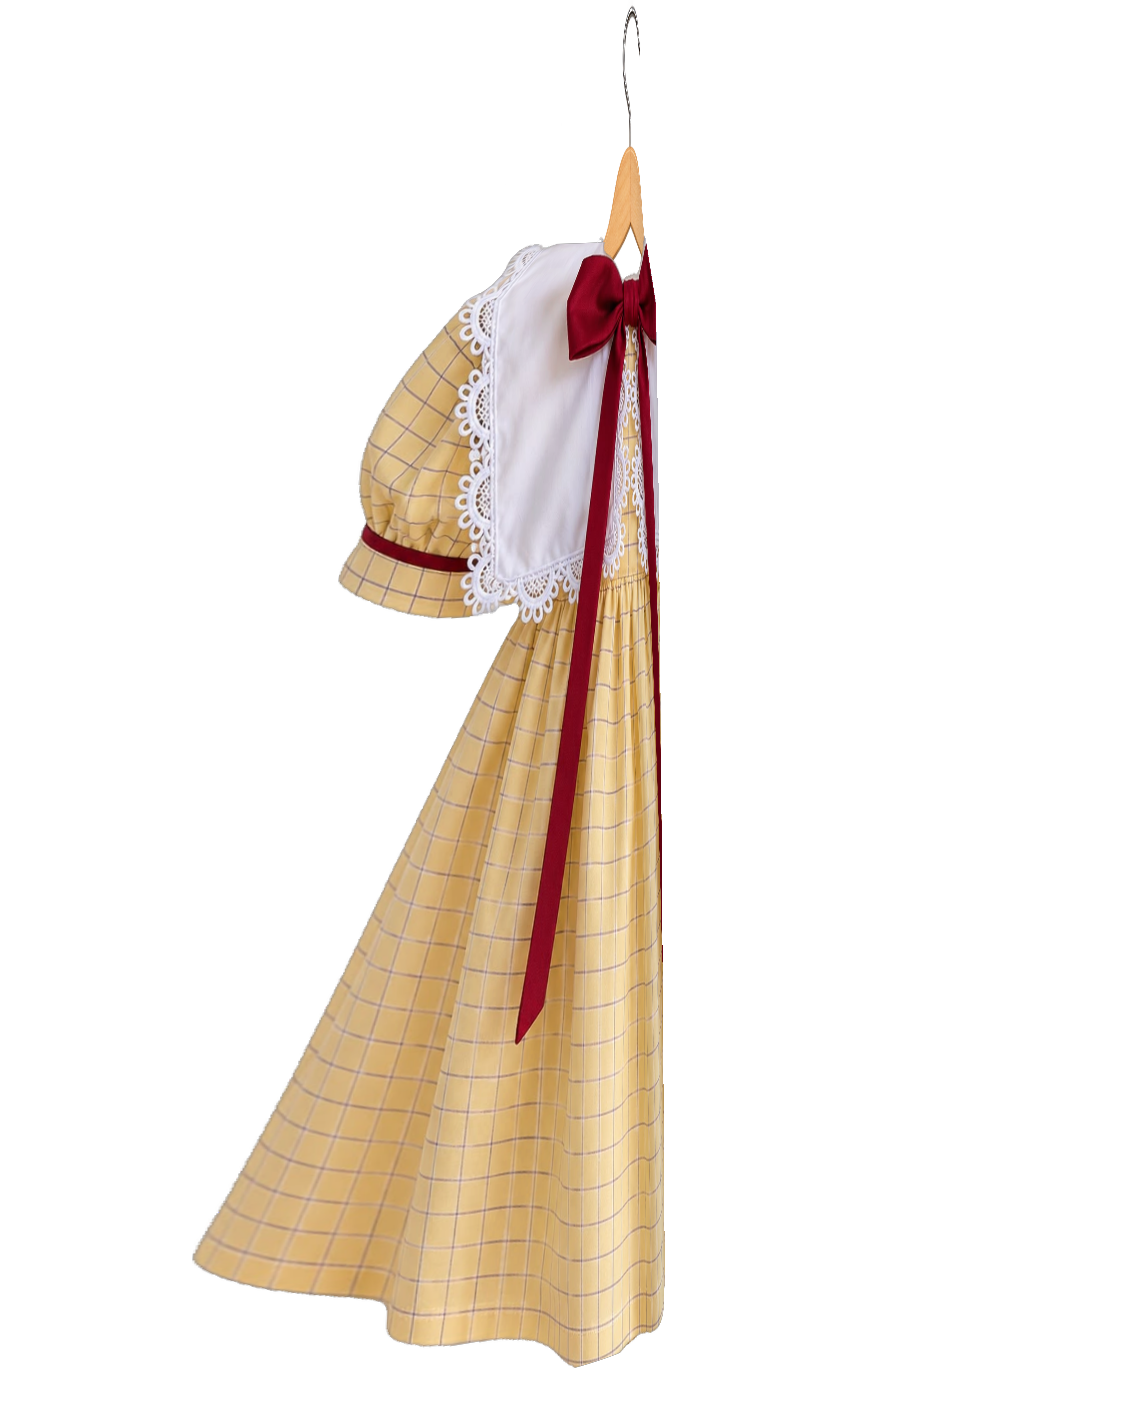
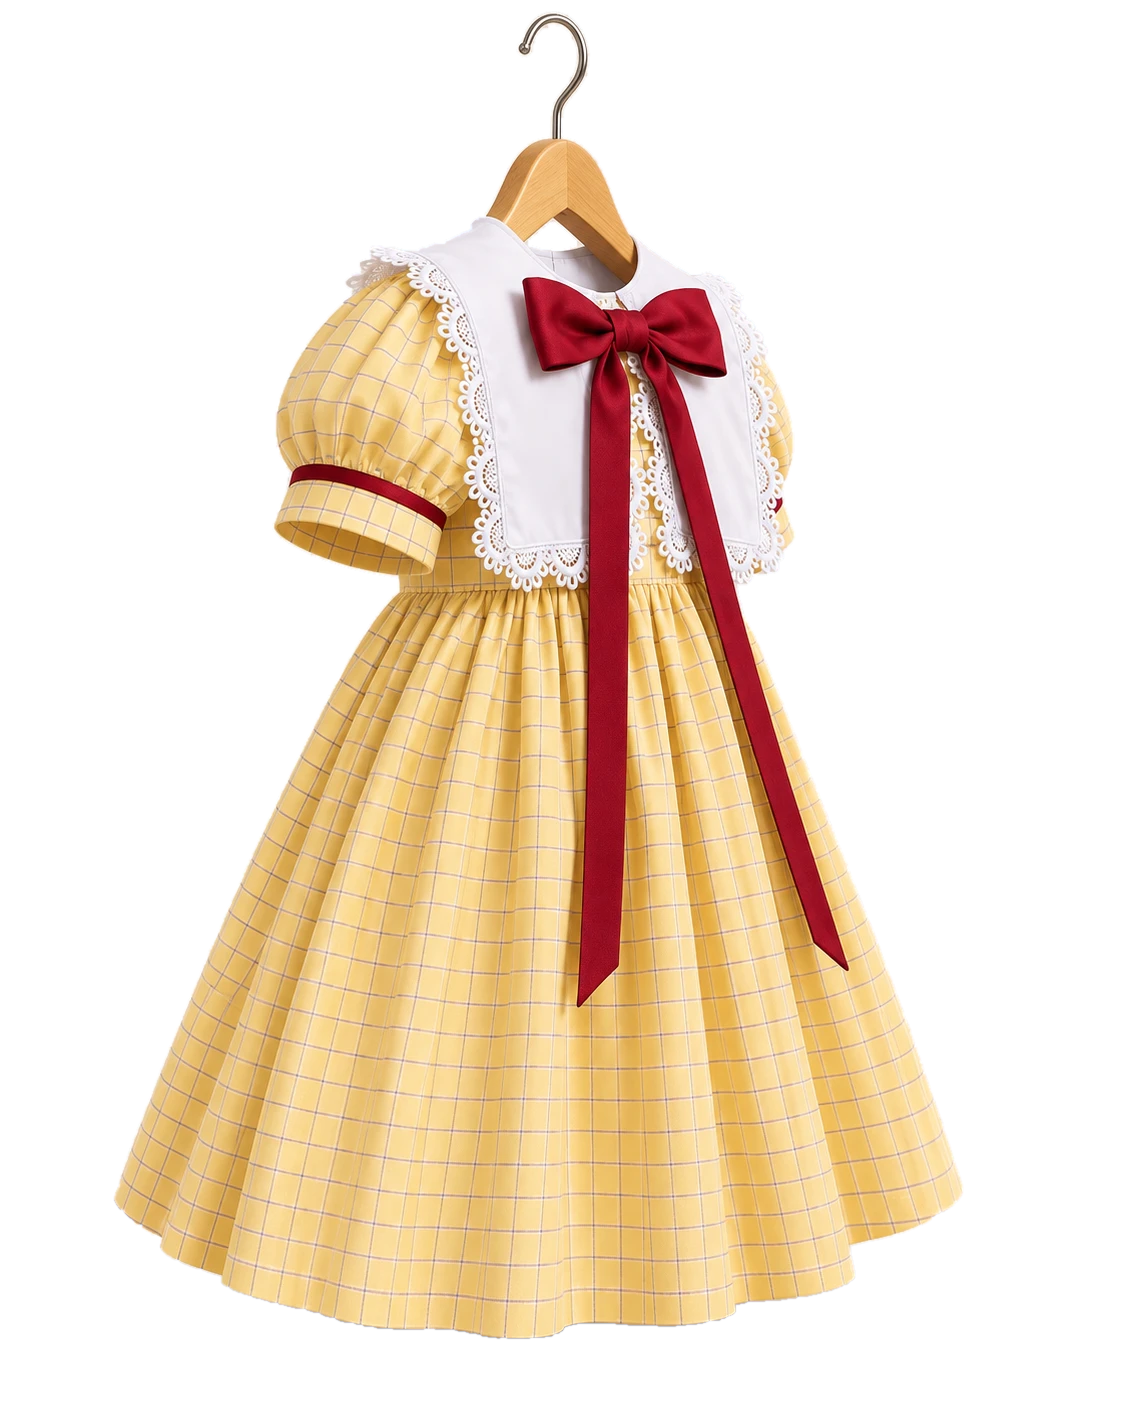
Usa a nova lateral do Vestido Pão de Mel enviada pela loja
Lateral gerada por IA a partir da foto do produto, com fundo e sombra
removidos. Substitui a versão obtida deformando a foto de frente.

Claude-Session: https://claude.ai/code/session_01JWzVUfE6a2CxmnwEsjALQt

diff --git a/encaixe-cabides.js b/encaixe-cabides.js
@@ -1,4 +1,4 @@
-window.BIBILICA_HOOKS={"assets/recortes/vestido-pao-de-mel.png": {"woodY": 145, "woodX": 560.1}, "assets/laterais/vestido-pao-de-mel.png": {"woodY": 145, "woodX": 630.8}, "assets/laterais/vestido-nuvem-verde.png": {"anchor": 33.8, "cut": 77.2, "x": 537.0, "woodY": 148, "woodX": 540.6}, "assets/recortes/vestido-nuvem-verde.png": {"anchor": 50.2, "cut": 125.8, "x": 545.0, "woodY": 145, "woodX": 560.1}, "assets/laterais/vestido-abelhinha.png": {"anchor": 33.6, "cut": 74.9, "x": 520.5, "woodY": 218, "woodX": 535.26}, "assets/laterais/vestido-algodao-doce.png": {"anchor": 44.2, "cut": 91.8, "x": 529.0, "woodY": 151, "woodX": 517.6}, "assets/laterais/vestido-botao-de-rosa.png": {"anchor": 43.6, "cut": 91.9, "x": 534.5, "woodY": 161, "woodX": 540.5}, "assets/laterais/vestido-campinho-azul.png": {"anchor": 40.4, "cut": 90.1, "x": 555.5, "woodY": 151, "woodX": 565.3}, "assets/laterais/vestido-campinho.png": {"anchor": 41.8, "cut": 88.7, "x": 559.5, "woodY": 160, "woodX": 566.3}, "assets/laterais/vestido-cerejeira.png": {"anchor": 35.6, "cut": 76.9, "x": 543.5, "woodY": 172, "woodX": 531.39}, "assets/laterais/vestido-cerejinha.png": {"anchor": 39.2, "cut": 90.3, "x": 505.5, "woodY": 149, "woodX": 514.9}, "assets/laterais/vestido-guirlanda.png": {"anchor": 28.2, "cut": 65.3, "x": 555.5, "woodY": 120, "woodX": 560.3}, "assets/laterais/vestido-jardinzinho.png": {"anchor": 31.8, "cut": 68.2, "x": 561.0, "woodY": 116, "woodX": 565.8}, "assets/laterais/vestido-laco-de-fita.png": {"anchor": 29.4, "cut": 65.1, "x": 555.5, "woodY": 102, "woodX": 561.7}, "assets/laterais/vestido-marujinha.png": {"anchor": 41.2, "cut": 92.3, "x": 535.5, "woodY": 146, "woodX": 535.7}, "assets/laterais/vestido-nuvem.png": {"anchor": 33.8, "cut": 77.2, "x": 537.0, "woodY": 148, "woodX": 540.6}, "assets/laterais/vestido-raminho.png": {"anchor": 35.8, "cut": 79.2, "x": 544.0, "woodY": 123, "woodX": 553.2}, "assets/recortes/vestido-abelhinha.png": {"anchor": 42.0, "cut": 101.5, "x": 648.5, "woodY": 146, "woodX": 654.2}, "assets/recortes/vestido-algodao-doce.png": {"anchor": 26.2, "cut": 59.8, "x": 636.0, "woodY": 144, "woodX": 633.6}, "assets/recortes/vestido-botao-de-rosa.png": {"anchor": 58.0, "cut": 131.5, "x": 525.5, "woodY": 165, "woodX": 536.2}, "assets/recortes/vestido-campinho-azul.png": {"anchor": 53.6, "cut": 126.4, "x": 546.0, "woodY": 147, "woodX": 559.6}, "assets/recortes/vestido-campinho.png": {"anchor": 56.6, "cut": 139.9, "x": 555.0, "woodY": 159, "woodX": 560.4}, "assets/recortes/vestido-cerejeira.png": {"anchor": 38.2, "cut": 89.3, "x": 539.0, "woodY": 140, "woodX": 542.1}, "assets/recortes/vestido-cerejinha.png": {"anchor": 43.6, "cut": 102.4, "x": 618.0, "woodY": 123, "woodX": 627.6}, "assets/recortes/vestido-guirlanda.png": {"anchor": 39.4, "cut": 99.6, "x": 556.0, "woodY": 116, "woodX": 560.6}, "assets/recortes/vestido-jardinzinho.png": {"anchor": 40.6, "cut": 95.9, "x": 555.5, "woodY": 110, "woodX": 562.3}, "assets/recortes/vestido-laco-de-fita.png": {"anchor": 41.4, "cut": 98.1, "x": 550.5, "woodY": 107, "woodX": 559.1}, "assets/recortes/vestido-marujinha.png": {"anchor": 52.6, "cut": 118.4, "x": 540.0, "woodY": 171, "woodX": 536.5}, "assets/recortes/vestido-nuvem.png": {"anchor": 50.2, "cut": 125.8, "x": 545.0, "woodY": 145, "woodX": 560.1}, "assets/recortes/vestido-raminho.png": {"anchor": 44.6, "cut": 110.4, "x": 535.0, "woodY": 115, "woodX": 546.6}, "assets/recortes/vestido-moranguinho-azul.png": {"woodY": 149, "woodX": 559.3}, "assets/laterais/vestido-moranguinho-azul.png": {"woodY": 147, "woodX": 573.9}, "assets/laterais/vestido-moranguinho-azul-direita.png": {"woodY": 145, "woodX": 555.6}};
+window.BIBILICA_HOOKS={"assets/recortes/vestido-pao-de-mel.png": {"woodY": 145, "woodX": 560.1}, "assets/laterais/vestido-pao-de-mel.png": {"woodY": 138, "woodX": 555}, "assets/laterais/vestido-nuvem-verde.png": {"anchor": 33.8, "cut": 77.2, "x": 537.0, "woodY": 148, "woodX": 540.6}, "assets/recortes/vestido-nuvem-verde.png": {"anchor": 50.2, "cut": 125.8, "x": 545.0, "woodY": 145, "woodX": 560.1}, "assets/laterais/vestido-abelhinha.png": {"anchor": 33.6, "cut": 74.9, "x": 520.5, "woodY": 218, "woodX": 535.26}, "assets/laterais/vestido-algodao-doce.png": {"anchor": 44.2, "cut": 91.8, "x": 529.0, "woodY": 151, "woodX": 517.6}, "assets/laterais/vestido-botao-de-rosa.png": {"anchor": 43.6, "cut": 91.9, "x": 534.5, "woodY": 161, "woodX": 540.5}, "assets/laterais/vestido-campinho-azul.png": {"anchor": 40.4, "cut": 90.1, "x": 555.5, "woodY": 151, "woodX": 565.3}, "assets/laterais/vestido-campinho.png": {"anchor": 41.8, "cut": 88.7, "x": 559.5, "woodY": 160, "woodX": 566.3}, "assets/laterais/vestido-cerejeira.png": {"anchor": 35.6, "cut": 76.9, "x": 543.5, "woodY": 172, "woodX": 531.39}, "assets/laterais/vestido-cerejinha.png": {"anchor": 39.2, "cut": 90.3, "x": 505.5, "woodY": 149, "woodX": 514.9}, "assets/laterais/vestido-guirlanda.png": {"anchor": 28.2, "cut": 65.3, "x": 555.5, "woodY": 120, "woodX": 560.3}, "assets/laterais/vestido-jardinzinho.png": {"anchor": 31.8, "cut": 68.2, "x": 561.0, "woodY": 116, "woodX": 565.8}, "assets/laterais/vestido-laco-de-fita.png": {"anchor": 29.4, "cut": 65.1, "x": 555.5, "woodY": 102, "woodX": 561.7}, "assets/laterais/vestido-marujinha.png": {"anchor": 41.2, "cut": 92.3, "x": 535.5, "woodY": 146, "woodX": 535.7}, "assets/laterais/vestido-nuvem.png": {"anchor": 33.8, "cut": 77.2, "x": 537.0, "woodY": 148, "woodX": 540.6}, "assets/laterais/vestido-raminho.png": {"anchor": 35.8, "cut": 79.2, "x": 544.0, "woodY": 123, "woodX": 553.2}, "assets/recortes/vestido-abelhinha.png": {"anchor": 42.0, "cut": 101.5, "x": 648.5, "woodY": 146, "woodX": 654.2}, "assets/recortes/vestido-algodao-doce.png": {"anchor": 26.2, "cut": 59.8, "x": 636.0, "woodY": 144, "woodX": 633.6}, "assets/recortes/vestido-botao-de-rosa.png": {"anchor": 58.0, "cut": 131.5, "x": 525.5, "woodY": 165, "woodX": 536.2}, "assets/recortes/vestido-campinho-azul.png": {"anchor": 53.6, "cut": 126.4, "x": 546.0, "woodY": 147, "woodX": 559.6}, "assets/recortes/vestido-campinho.png": {"anchor": 56.6, "cut": 139.9, "x": 555.0, "woodY": 159, "woodX": 560.4}, "assets/recortes/vestido-cerejeira.png": {"anchor": 38.2, "cut": 89.3, "x": 539.0, "woodY": 140, "woodX": 542.1}, "assets/recortes/vestido-cerejinha.png": {"anchor": 43.6, "cut": 102.4, "x": 618.0, "woodY": 123, "woodX": 627.6}, "assets/recortes/vestido-guirlanda.png": {"anchor": 39.4, "cut": 99.6, "x": 556.0, "woodY": 116, "woodX": 560.6}, "assets/recortes/vestido-jardinzinho.png": {"anchor": 40.6, "cut": 95.9, "x": 555.5, "woodY": 110, "woodX": 562.3}, "assets/recortes/vestido-laco-de-fita.png": {"anchor": 41.4, "cut": 98.1, "x": 550.5, "woodY": 107, "woodX": 559.1}, "assets/recortes/vestido-marujinha.png": {"anchor": 52.6, "cut": 118.4, "x": 540.0, "woodY": 171, "woodX": 536.5}, "assets/recortes/vestido-nuvem.png": {"anchor": 50.2, "cut": 125.8, "x": 545.0, "woodY": 145, "woodX": 560.1}, "assets/recortes/vestido-raminho.png": {"anchor": 44.6, "cut": 110.4, "x": 535.0, "woodY": 115, "woodX": 546.6}, "assets/recortes/vestido-moranguinho-azul.png": {"woodY": 149, "woodX": 559.3}, "assets/laterais/vestido-moranguinho-azul.png": {"woodY": 147, "woodX": 573.9}, "assets/laterais/vestido-moranguinho-azul-direita.png": {"woodY": 145, "woodX": 555.6}};
 Object.assign(window.BIBILICA_HOOKS, {
   "assets/laterais/vestido-lavanda-frente.png": {
     "woodY": 6,

diff --git a/index.html b/index.html
@@ -1564,6 +1564,6 @@ document.getElementById("ano").textContent = new Date().getFullYear();
 render();
 </script>
 
-<script src="encaixe-cabides.js?v=20261125-paodemel80"></script><script src="loja.js?v=20261124-paodemel"></script><script src="zoom.js?v=20261115-topomobile"></script><script src="favoritos.js?v=20261122-cores"></script>
+<script src="encaixe-cabides.js?v=20261125-paodemel-lateral-ia"></script><script src="loja.js?v=20261124-paodemel"></script><script src="zoom.js?v=20261115-topomobile"></script><script src="favoritos.js?v=20261122-cores"></script>
 </body>
 </html>
